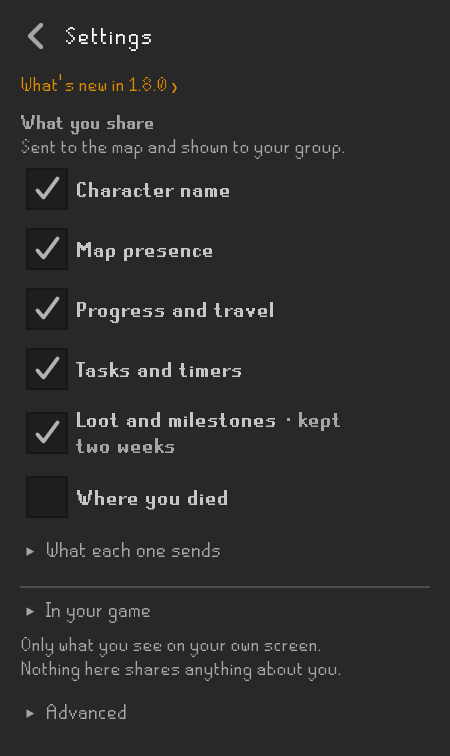
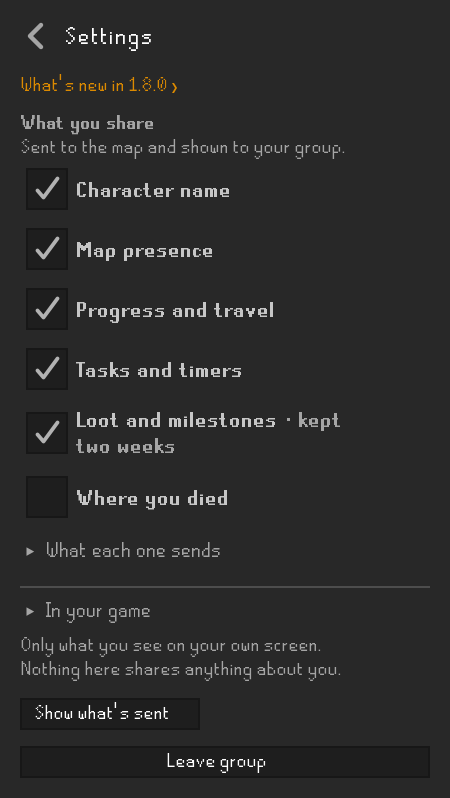
Take the map address off Settings, and Advanced with it
Advanced was a fold at the foot of Settings holding the map address with its Apply, Show what's
sent, and the two buttons that leave a group and forget the kill log. Only somebody running a
map of their own changes the address, and RuneLite's own list has held that setting all along.

The field and its button are gone from the sidebar, and the fold with them. Show what's sent,
Leave group and Forget kill log are the page's foot. Show what's sent stays because it is how a
player, and every live check, sees what would be sent rather than being told.

Connect and Join applied an address still sitting in the field before they asked the map; with
no field there is nothing to apply, so they ask at once. An address that is not https, or not
this machine, is refused where it always was, by the connection that reads it.

The Hub page, the network notes and the live checks say where the address is now.

diff --git a/src/main/java/com/pbolduc/mapcompanion/SettingsPage.java b/src/main/java/com/pbolduc/mapcompanion/SettingsPage.java
@@ -53,13 +53,12 @@ import static net.runelite.client.ui.ColorScheme.DARK_GRAY_COLOR;
 
 /**
  * Settings, the page behind the gear: What's new, every sharing choice ({@link SharingControls}),
- * then Advanced with the map address, Show what's sent, Leave group and Forget kill log.
+ * then Show what's sent, Leave group and Forget kill log at its foot.
  *
  * <p>A class of its own because it is a page of its own ({@link SidebarPages}), set once and seldom
- * read again, and nothing on it is part of a session. What Leave group and a new map address did is
- * said on the daily page they turn back to, under the join field, through {@link ConnectCard}; an
- * address Apply refuses is said under Apply. {@link MapCompanionPanel} hands it to the pages and
- * calls {@link #refresh(boolean)} last in its own.
+ * read again, and nothing on it is part of a session. What Leave group did is said on the daily page
+ * it turns back to, under the join field, through {@link ConnectCard}. {@link MapCompanionPanel} hands
+ * it to the pages and calls {@link #refresh(boolean)} last in its own.
  *
  * <p>Two of the buttons are about trust rather than about the map. <b>Show what's sent</b> prints
  * the actual snapshot, built by the same code that would post it, because a plugin that claims to
@@ -92,14 +91,8 @@ final class SettingsPage extends JPanel
 
 	private final JButton previewButton = smallButton("Show what's sent");
 	private final SharingControls sharingControls;
-	private final JTextField mapAddress = new JTextField();
-	/** Under Apply: why the address typed was not taken. It only ever says why Apply refused an address. */
-	private final JLabel addressSaid = MapCompanionPanel.label(11f, MapCompanionPanel.REFUSED);
-	private String displayedAddress;
 
-	/*
-	 * The reset actions live in Advanced: neither is a thing a player does every session.
-	 */
+	/* The reset actions are the page's foot: neither is a thing a player does every session. */
 	private final JPanel foot = row(DARK_GRAY_COLOR);
 	private List<JButton> shownFoot = new ArrayList<>();
 	private final JButton leaveButton = smallButton("Leave group");
@@ -142,8 +135,14 @@ final class SettingsPage extends JPanel
 		add(sectionHead("What you share"));
 		add(MapCompanionPanel.wrapped(Words.of("settings.shareSub"), 11f, ColorScheme.LIGHT_GRAY_COLOR, MapCompanionPanel.CARD_TEXT_WIDTH + 16));
 		add(sharingControls);
-		add(gap(4, DARK_GRAY_COLOR));
-		add(buildAdvanced());
+		/*
+		 * The foot: the three presses that are about trust or about leaving, none a setting. The map
+		 * address is in RuneLite's own list alone: only somebody running a map of their own changes it.
+		 */
+		add(gap(8, DARK_GRAY_COLOR));
+		add(hug(previewButton, DARK_GRAY_COLOR));
+		add(gap(8, DARK_GRAY_COLOR));
+		add(left(foot));
 
 		previewButton.setToolTipText(Words.of("settings.previewTip"));
 		previewButton.addActionListener(e -> showSnapshotPreview());
@@ -156,78 +155,9 @@ final class SettingsPage extends JPanel
 	}
 
 	/** The actual address is editable here; there is no second default or explanatory footnote. */
-	private JPanel buildAdvanced()
-	{
-		JPanel contents = column(DARK_GRAY_COLOR);
-		contents.add(sectionHead("Map address"));
-		mapAddress.setText(config.relayUrl());
-		mapAddress.addActionListener(e -> applyMapAddress(true));
-		contents.add(fill(mapAddress, DARK_GRAY_COLOR));
-		JButton apply = smallButton("Apply");
-		apply.addActionListener(e -> applyMapAddress(true));
-		contents.add(hug(apply, DARK_GRAY_COLOR));
-		addressSaid.setVisible(false);
-		contents.add(addressSaid);
-		contents.add(gap(8, DARK_GRAY_COLOR));
-		contents.add(hug(previewButton, DARK_GRAY_COLOR));
-		contents.add(gap(8, DARK_GRAY_COLOR));
-		contents.add(left(foot));
-		return SharingControls.fold("Advanced", contents);
-	}
-
-	/** The address typed here, applied before Connect or Join asks, which answer on the page they are on. */
-	boolean applyMapAddress()
-	{
-		return applyMapAddress(false);
-	}
-
-	/**
-	 * Apply the address typed, with a scheme left off put back ({@link Pairing#withScheme}), so what was
-	 * meant is written into the field rather than refused. A refusal is said where the press was:
-	 * under Apply for Apply and Enter, which leave Settings open, and under the join field for Connect
-	 * and Join, which are on the daily page.
-	 */
-	private boolean applyMapAddress(boolean here)
-	{
-		String server = Pairing.normalizeServer(Pairing.withScheme(mapAddress.getText()));
-		if (server == null)
-		{
-			String why = Words.of("settings.badAddress");
-			if (here)
-			{
-				setWrapped(addressSaid, why);
-				addressSaid.setVisible(true);
-			}
-			else
-			{
-				connectCard.refuse(why);
-			}
-			return false;
-		}
-		addressSaid.setVisible(false);
-		mapAddress.setText(server);
-		if (!server.equals(pairing.serverUrl()))
-		{
-			settings.set(MapCompanionConfig.KEY_RELAY_URL, server);
-			connectCard.joinOpen = true;
-			connectCard.say("Map address changed. Press Connect.");
-			/* The field and the line that asks for it are on the daily page. */
-			settingsOpen.accept(false);
-			refresh.run();
-		}
-		return true;
-	}
-
-	/** The sharing choices, the map address as saved, and the reset actions there is something for. EDT. */
 	void refresh(boolean paired)
 	{
 		sharingControls.refresh();
-		String configuredAddress = config.relayUrl();
-		if (!java.util.Objects.equals(displayedAddress, configuredAddress))
-		{
-			displayedAddress = configuredAddress;
-			mapAddress.setText(configuredAddress == null ? MapCompanionConfig.DEFAULT_MAP_URL : configuredAddress);
-		}
 
 		List<JButton> footRow = new ArrayList<>();
 		if (paired)

diff --git a/src/main/java/com/pbolduc/mapcompanion/ConnectCard.java b/src/main/java/com/pbolduc/mapcompanion/ConnectCard.java
@@ -103,7 +103,6 @@ final class ConnectCard extends JPanel
 	/** Settings in place of the daily page, or the daily page back. See {@link SidebarPages}. */
 	private final Consumer<Boolean> settingsOpen;
 	/** The address typed in Settings, applied before Connect or Join asks; false when it is not one. */
-	private final BooleanSupplier applyMapAddress;
 	private final Supplier<String> mapUrl;
 
 	/* The status card: connection, group and a short summary; the snapshot preview is in Advanced. */
@@ -235,7 +234,7 @@ final class ConnectCard extends JPanel
 	ConnectCard(Component sidebar, MapCompanionConfig config, ConfigStore settings, MapCompanionPlugin plugin, MemberIdentity identity,
 		Pairing pairing, RelayClient relay, DirectiveStream directiveStream, ConnectClient connectClient,
 		RecommendedSharing recommendedSharing, Runnable refresh, Consumer<Boolean> settingsOpen,
-		BooleanSupplier applyMapAddress, Supplier<String> mapUrl)
+		Supplier<String> mapUrl)
 	{
 		this.sidebar = sidebar;
 		this.config = config;
@@ -249,7 +248,6 @@ final class ConnectCard extends JPanel
 		this.recommendedSharing = recommendedSharing;
 		this.refresh = refresh;
 		this.settingsOpen = settingsOpen;
-		this.applyMapAddress = applyMapAddress;
 		this.mapUrl = mapUrl;
 		column(this, DARK_GRAY_COLOR);
 
@@ -475,7 +473,7 @@ final class ConnectCard extends JPanel
 	 */
 	private void startGroup()
 	{
-		if (asking || !applyMapAddress.getAsBoolean())
+		if (asking)
 		{
 			return;
 		}
@@ -701,10 +699,6 @@ final class ConnectCard extends JPanel
 	 */
 	private void joinFromField()
 	{
-		if (!applyMapAddress.getAsBoolean())
-		{
-			return;
-		}
 		connectFailed = null;
 		String entered = joinField.getText().trim();
 		JoinCode joined = JoinCode.parse(entered.isEmpty() ? pairingCode() : entered);

diff --git a/src/main/java/com/pbolduc/mapcompanion/MapCompanionPanel.java b/src/main/java/com/pbolduc/mapcompanion/MapCompanionPanel.java
@@ -200,7 +200,7 @@ public class MapCompanionPanel extends PluginPanel
 		/* Before the connect card, which offers it after a first Connect. */
 		this.recommendedSharing = new RecommendedSharing(config, settings, this::refresh);
 		this.connectCard = new ConnectCard(this, config, settings, plugin, identity, pairing, relay, directiveStream, connectClient,
-			recommendedSharing, this::refresh, this::openSettings, this::applyMapAddress, this::mapUrl);
+			recommendedSharing, this::refresh, this::openSettings, this::mapUrl);
 		this.groupPanel = new GroupPanel(destinationState, groupState, routePress, meetupClient, config, sprites);
 		groupPanel.remover(new GroupPanel.Remover()
 		{
@@ -960,11 +960,5 @@ public class MapCompanionPanel extends PluginPanel
 	private void openSettings(boolean open)
 	{
 		pages.open(open);
-	}
-
-	/** The address typed in Settings, applied: Connect and Join apply it before they ask the map. */
-	private boolean applyMapAddress()
-	{
-		return settingsPage.applyMapAddress();
 	}
 }

diff --git a/src/test/java/com/pbolduc/mapcompanion/AnsweredWherePressedTest.java b/src/test/java/com/pbolduc/mapcompanion/AnsweredWherePressedTest.java
@@ -60,7 +60,7 @@ public class AnsweredWherePressedTest
 	private final ConnectCard card = new ConnectCard(new JPanel(), config, store, new MapCompanionPlugin(), identity, pairing,
 		new RelayClient(new OkHttpClient(), new Gson()), new DirectiveStream(new OkHttpClient(), new Gson(), (action, delay) -> null),
 		new ConnectClient(new OkHttpClient(), new Gson()), new RecommendedSharing(config, store, () -> { }),
-		() -> { }, open -> { }, () -> true, () -> MapCompanionConfig.DEFAULT_MAP_URL);
+		() -> { }, open -> { }, () -> MapCompanionConfig.DEFAULT_MAP_URL);
 	private GroupPanel groupPanel;
 
 	@Test

diff --git a/src/test/java/com/pbolduc/mapcompanion/RefusedGroupTest.java b/src/test/java/com/pbolduc/mapcompanion/RefusedGroupTest.java
@@ -69,7 +69,7 @@ public class RefusedGroupTest
 	private final ConnectCard card = new ConnectCard(new JPanel(), config, store, new MapCompanionPlugin(), identity, pairing,
 		relay, new DirectiveStream(new OkHttpClient(), new Gson(), (action, delay) -> null),
 		new ConnectClient(new OkHttpClient(), new Gson()), new RecommendedSharing(config, store, () -> { }),
-		() -> { }, open -> { }, () -> true, () -> MapCompanionConfig.DEFAULT_MAP_URL);
+		() -> { }, open -> { }, () -> MapCompanionConfig.DEFAULT_MAP_URL);
 	private GroupPanel groupPanel;
 
 	@Test

diff --git a/README.md b/README.md
@@ -182,7 +182,7 @@ sharing choice off.
 <summary>Full sharing details and settings</summary>
 
 <p>
-  <img src="docs/mockups/sidebar-settings.png" width="300" alt="Settings: six sharing switches, all on but Where you died, as one press at Connect leaves them, then What each one sends, a rule, and In your game with a line saying nothing there shares anything about you, and Advanced, closed">
+  <img src="docs/mockups/sidebar-settings.png" width="300" alt="Settings: six sharing switches, all on but Where you died, as one press at Connect leaves them, then What each one sends, a rule, and In your game, closed, with a line saying nothing there shares anything about you, then Show what's sent and Leave group">
 </p>
 
 Sharing is six switches, and every one starts off. After your first Connect, one press of
@@ -230,7 +230,7 @@ Large snapshots include a flag saying some of it was left out.
 **Connect**, with no group yet, sends a random key for this RuneLite, once per press; the map makes
 your group with it. **Join** with a pasted invite, or **Connect** with one in the field, sends that
 key and the invite. Neither sends
-anything about your character. If you have changed **Settings → Advanced → Map address** to a server
+anything about your character. If you have changed **Map address**, under Advanced in RuneLite's own settings for the plugin, to a server
 other than osrs-map.com, the first Connect to it asks you first, naming it.
 **Open the map** sends your group's credentials once per press, and opens a one-time link that
 adds that browser to your group as you. **Rename group…** sends the new name, once per press, and
@@ -269,7 +269,7 @@ you: Route to a meetup tells nobody you are coming.
 
 Your chat, other players, your bank and inventory, your existing collection log slots, a complete
 loot history and anything derived from your account's identifiers are never sent. **Settings →
-Advanced → Show what's sent** shows what would go out right now. The server's operator and your group's
+Show what's sent** shows what would go out right now. The server's operator and your group's
 members can see what you share.
 
 osrs-map.com keeps live positions and progress in memory only, with no movement history. Groups,

diff --git a/docs/network.md b/docs/network.md
@@ -8,7 +8,7 @@ requests carry it, what identifies a member, and what is kept. The
 
 ## Requests
 
-Requests go to **Settings → Advanced → Map address**, default `https://osrs-map.com`; it must be https
+Requests go to **Map address**, under Advanced in RuneLite's own settings for the plugin, default `https://osrs-map.com`; it must be https
 unless the map runs on this machine, and redirects are not followed. With no pairing code or no
 approval of the selected server, the plugin makes no requests. The warning RuneLite requires is the
 Hub manifest's, shown when the plugin is installed; no setting repeats it. The first **Connect** to
@@ -299,7 +299,7 @@ identity; your local kill log remains. A remembered group that issued one keeps 
 admits the new identity only by invite, so it leaves **Switch ▾** with the group left; a group that
 never issued one still admits by its code, and stays.
 
-Local game messages provide bounded reward and assignment facts only. **Settings → Advanced → Show what's
+Local game messages provide bounded reward and assignment facts only. **Settings → Show what's
 sent** previews the current snapshot; credentials are named without displaying standing secrets.
 
 ## Storage

diff --git a/docs/live-checks.md b/docs/live-checks.md
@@ -472,8 +472,8 @@ The website plan's second session, once the routes in the game are built: a memb
       it says nothing was copied, and that stays, and pasting gives what the clipboard held before.
 - [ ] **Answered where pressed.** Switch ▾ → Join another group… opens the field under Copy invite ·
       Switch ▾, and an expired invite is refused under its Paste and Join; Hide the code field folds
-      it. In Settings → Advanced, Apply with `osrs-map.com` writes `https://osrs-map.com` into the
-      field, and with `http://example.com` says why under Apply, with Settings still open.
+      it. In RuneLite's own settings for the plugin, a Map address that is not https, or not this
+      machine, leaves the status card saying the address is invalid and no request goes anywhere.
 - [ ] **Remove from group.** In a group Connect made, the maker right-clicks a friend's card, on the
       name, on where they are and on Route: each offers *Remove from group…*, and the friend's own
       right-click offers nothing. The dialog names the friend and the group, and Cancel is the

diff --git a/docs/sidebar-layout.md b/docs/sidebar-layout.md
@@ -1248,3 +1248,12 @@ Group tab with the form open, and the form says *A meetup at the spot you picked
 link's says *A meetup where you stand*. The request is the one it always was, with that tile in
 the place of the player's. Put away and opened again from its link, the form is back to where the
 player stands, so a spot picked once is never the place of a later meetup.
+
+### Advanced, taken off the page
+
+*Advanced* held the map address with its *Apply*, *Show what's sent*, and the two buttons that
+leave a group and forget the kill log. Only somebody running a map of their own changes the
+address, and RuneLite's own list has held the setting all along, so the field and its button are
+gone from the sidebar and the fold with them. *Show what's sent* and the two buttons are the page's
+foot. *Show what's sent* stays because it is how a player, and every live check here, sees what
+would be sent rather than being told.

diff --git a/docs/review-evidence/readme-2026-11-02.md b/docs/review-evidence/readme-2026-11-02.md
@@ -267,3 +267,7 @@ themes with no horizontal overflow and every internal link resolved.
 `sidebar-settings.png` was painted again when Settings was put in two named halves (*Settings in
 two halves* in `docs/sidebar-layout.md`): the same scene, `settings-closed`, at 225×378, with a
 line under each half's name and a rule between them. Painted on Windows with JDK 27.
+
+And again when *Advanced* was taken off the page: the same scene at 225×399, with *Show what's
+sent* and *Leave group* at its foot. The renderer's `settings` scene, which opened *Advanced*, now
+paints what `settings-closed` does.
